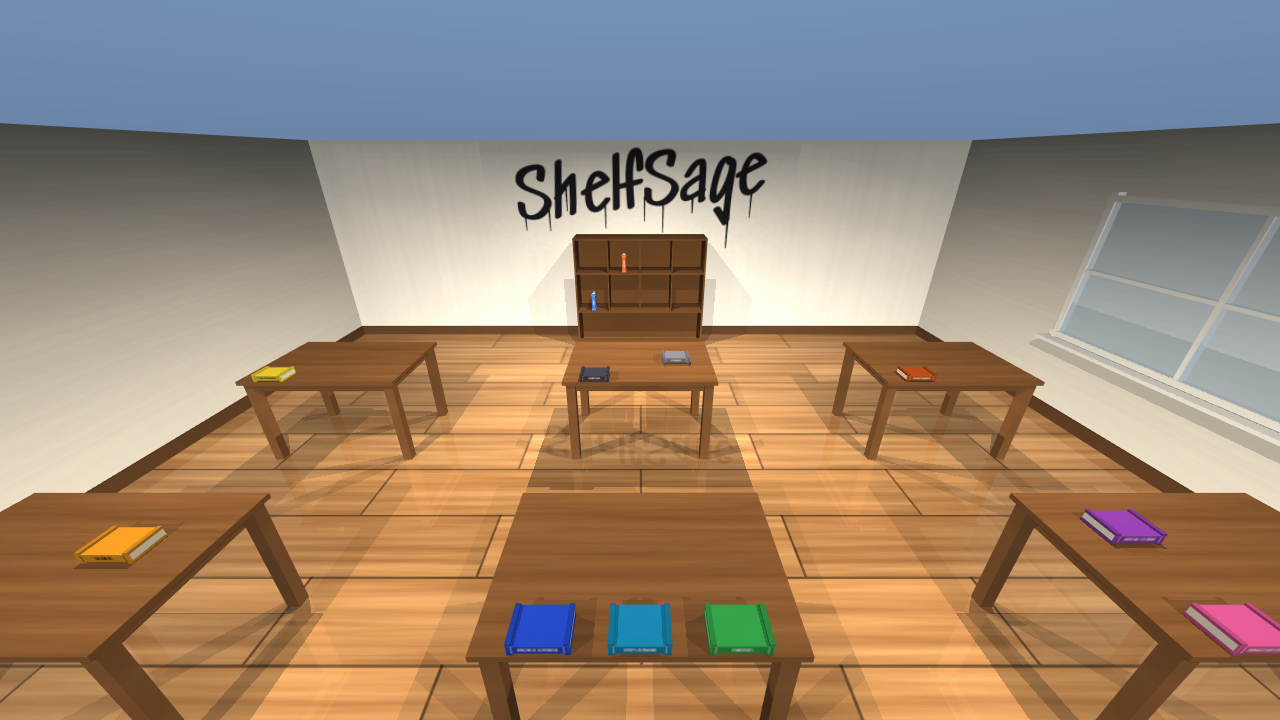
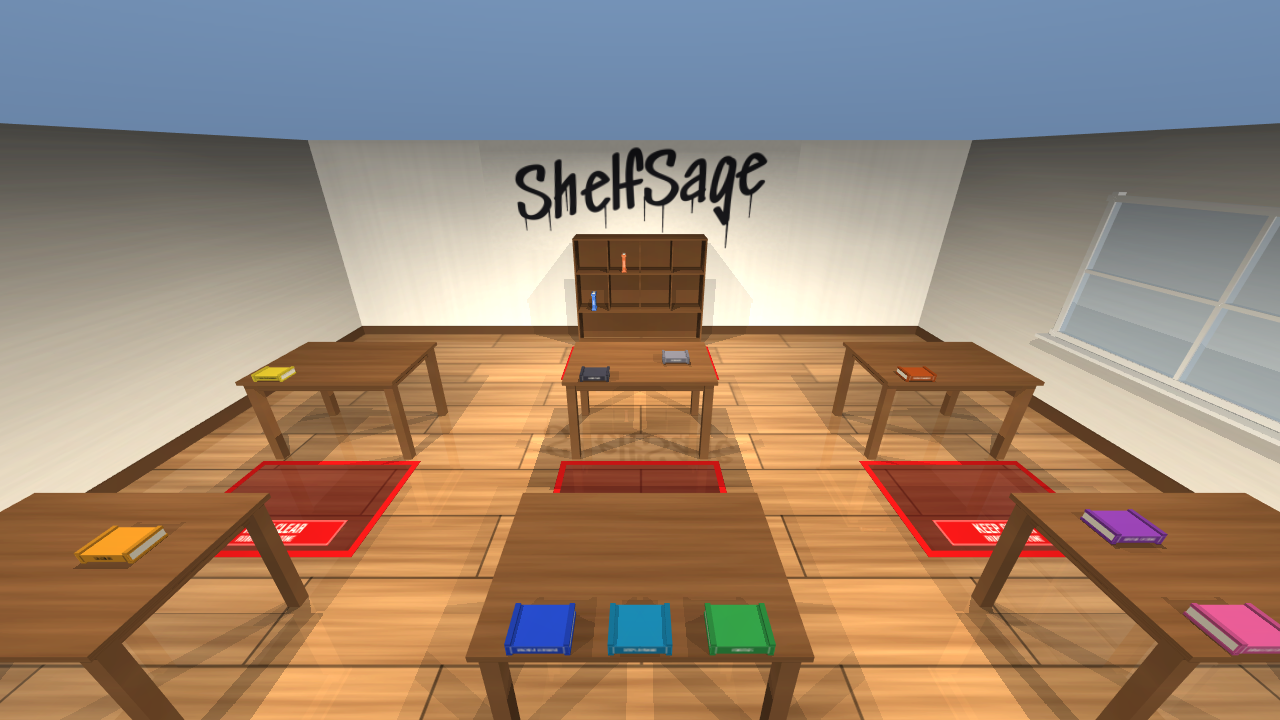
Floor zones: KEEP CLEAR - ROBOT WORK ZONE at fixed parking poses
- Fixed parking poses (0.30 m from the furniture) computed in the
  generator: one per table edge spot and one per shelf column, written
  to library_meta.json; the test and demo now read them from there.
- Red floor markings around them (tape border, light fill, label plate
  in Bebas Neue); visual only, no collisions, not in the LiDAR map.
  Zone rectangles are in the meta for later use (e.g. Phase 9 failures).
- Robot start moved to (0, -3.6) so it begins outside every zone.
- Phase 3 test: all checks pass; demo dry run: no contacts.

Changed region(s): [[0.6562, 0.6417, 0.8438, 0.7944], [0.1562, 0.6417, 0.3438, 0.7944], [0.4375, 0.6417, 0.5625, 0.7028]]

diff --git a/scene/generate_scene.py b/scene/generate_scene.py
@@ -285,6 +285,62 @@ def book_assets(layout):
     return out
 
 
+# --------------------------------------------------------------------- robot zones
+def parking_and_zones(layout, tables_meta, slots):
+    """Fixed robot parking poses (where it stands to pick / place) and the floor zones around them.
+
+    Tables: one pose per edge spot, facing the table (+y) from the robot side.
+    Shelf: one pose per column, facing the shelf.
+    The robot stands `park_clearance` away from the edge (grasp points then sit ~0.45 m ahead of
+    the arm mount, see sim/reach_check.py). Each zone covers the chassis at every pose of that
+    table / the shelf plus the gap to the furniture, where the arm works.
+    """
+    rc, zc = layout["robot"], layout["robot_zones"]
+    hx, hy = rc["chassis_half"]
+    clr, m = rc["park_clearance"], zc["margin"]
+    yaw = 1.5707963
+    zones = []
+    for name, t in tables_meta.items():
+        (tx, ty), (thx, thy) = t["pos"], t["half_size"]
+        edge = ty - thy
+        park_y = edge - clr - hx
+        t["parking"] = [[sp[0], park_y, yaw] for sp in t["edge_spots"]]
+        xs = [sp[0] for sp in t["edge_spots"]]
+        zones.append({"name": f"table_{name}", "x": [min(min(xs) - hy, tx - thx) - m, max(max(xs) + hy, tx + thx) + m],
+                      "y": [park_y - hx - m, edge]})
+    sh = layout["shelf"]
+    front = sh["pos"][1] - sh["depth"] / 2
+    park_y = front - clr - hx
+    cols = sorted({k[1:] for k in slots})
+    shelf_parking = {c: [slots[f"A{c}"][0], park_y, yaw] for c in cols}
+    xs = [p[0] for p in shelf_parking.values()]
+    zones.append({"name": "shelf", "x": [min(xs) - hy - m, max(xs) + hy + m], "y": [park_y - hx - m, front]})
+    return shelf_parking, zones
+
+
+def build_zones(zones, zc):
+    """Floor markings: translucent red fill, red tape border, KEEP CLEAR plate near the outer edge.
+    Purely visual (no collisions, not in the LiDAR map)."""
+    nc = 'contype="0" conaffinity="0"'
+    tape = zc["tape"]
+    lw, lh = zc["label_size"]
+    red = "0.78 0.08 0.08"
+    out = []
+    for z in zones:
+        (x0, x1), (y0, y1) = z["x"], z["y"]
+        cx, cy, hx, hy = (x0 + x1) / 2, (y0 + y1) / 2, (x1 - x0) / 2, (y1 - y0) / 2
+        n = z["name"]
+        out.append(f'<geom name="zone_{n}_fill" type="box" pos="{vec((cx, cy, 0.0006))}" '
+                   f'size="{vec((hx, hy, 0.0005))}" rgba="{red} 0.13" {nc}/>')
+        for side, (px, py, sx, sy) in {"s": (cx, y0 + tape / 2, hx, tape / 2), "n": (cx, y1 - tape / 2, hx, tape / 2),
+                                       "w": (x0 + tape / 2, cy, tape / 2, hy), "e": (x1 - tape / 2, cy, tape / 2, hy)}.items():
+            out.append(f'<geom name="zone_{n}_tape_{side}" type="box" pos="{vec((px, py, 0.0012))}" '
+                       f'size="{vec((sx, sy, 0.0005))}" rgba="{red} 1" {nc}/>')
+        out.append(f'<geom name="zone_{n}_label" type="box" pos="{vec((cx, y0 + tape + 0.04 + lh / 2, 0.0014))}" '
+                   f'size="{vec((lw / 2, lh / 2, 0.0005))}" material="zone_label_mat" {nc}/>')
+    return out
+
+
 # -------------------------------------------------------------------------- generate
 def ensure_textures():
     needed = ["floor_wood.png", "wood.png", "shelf_wood.png", "plaster.png", "sign_shelfsage.png"]
@@ -305,11 +361,16 @@ def generate():
     table_xml, tables_meta = build_tables(layout)
     shelf_geoms, slots = build_shelf(layout["shelf"])
     book_xml, books_meta = build_books(layout, tables_meta, slots)
+    shelf_parking, zones = parking_and_zones(layout, tables_meta, slots)
+    zc = layout["robot_zones"]
+    import make_textures
+    make_textures.make_floor_label("zone_label.png", zc["text"], zc["subtext"], zc["label_size"])
     spine_assets = "\n    ".join(book_assets(layout))
     win = layout["window"]
 
     body = []
     body += build_walls(room, hidden)
+    body += build_zones(zones, zc)
     body += build_window(win)
     if "sign" in layout:
         body += build_sign(room, layout["sign"])
@@ -354,6 +415,8 @@ def generate():
     <texture name="sign_tex" type="2d" file="sign_shelfsage.png"/>
     <material name="sign_mat" texture="sign_tex" specular="0.05" shininess="0.05"/>
     {spine_assets}
+    <texture name="zone_label_tex" type="2d" file="zone_label.png"/>
+    <material name="zone_label_mat" texture="zone_label_tex" specular="0.1" shininess="0.1"/>
   </asset>
   <worldbody>
 {lamps}
@@ -382,7 +445,8 @@ def generate():
         "window_pos": win["pos"],
         "hidden_walls": sorted(hidden),
         "tables": tables_meta,
-        "shelf": {"pos": layout["shelf"]["pos"], "slots": slots},
+        "shelf": {"pos": layout["shelf"]["pos"], "slots": slots, "parking": shelf_parking},
+        "robot_zones": zones,
         "books": books_meta,
         "book_dims": {"length": BOOK_L, "width": BOOK_W, "thickness": BOOK_T,
                       "rib_height": RIB_H, "rib_width": RIB_W, "mass": BOOK_MASS + 4 * RIB_MASS,

diff --git a/scene/make_textures.py b/scene/make_textures.py
@@ -155,6 +155,26 @@ def make_spine(name, title, color, length=0.22, thickness=0.04):
     img.save(OUT / name)
 
 
+ZONE_RED = (0.78, 0.08, 0.08)
+
+
+def make_floor_label(name, text, subtext, size=(0.90, 0.22)):
+    """Floor marking plate: white text on safety red (Bebas Neue)."""
+    from PIL import Image, ImageDraw, ImageFont
+
+    W, H = int(size[0] * 2000), int(size[1] * 2000)
+    img = Image.new("RGB", (W, H), tuple(int(c * 255) for c in ZONE_RED))
+    d = ImageDraw.Draw(img)
+    white = (250, 248, 240)
+    d.rectangle([12, 12, W - 13, H - 13], outline=white, width=10)
+    big = ImageFont.truetype(str(SPINE_FONT), int(H * 0.50))
+    small = ImageFont.truetype(str(SPINE_FONT), int(H * 0.30))
+    d.text((W / 2, H * 0.36), text, font=big, fill=white, anchor="mm")
+    d.text((W / 2, H * 0.76), subtext, font=small, fill=white, anchor="mm")
+    OUT.mkdir(exist_ok=True)
+    img.save(OUT / name)
+
+
 def main():
     make_parquet("floor_wood.png")
     make_wood("wood.png")

diff --git a/sim/test_robot.py b/sim/test_robot.py
@@ -30,15 +30,10 @@ from sim.robot import Robot, rot2  # noqa: E402
 
 OUT = ROOT / "sim/output/phase3"
 META = json.loads((ROOT / "scene/library_meta.json").read_text())
-CLEARANCE = 0.30   # gap between chassis front and table edge when parked: puts edge books ~0.45 m
-                   # ahead of the arm mount, mid-range for the 0.65 m mount (sim/reach_check.py)
 
-
-def table_parking(name):
-    """Facing the table from the south (+y), centred on the table, chassis CLEARANCE from the edge."""
-    t = META["tables"][name]
-    hx = META["robot"]["chassis_half"][0]
-    return t["pos"][0], t["pos"][1] - t["half_size"][1] - CLEARANCE - hx, math.pi / 2
+def table_parking(name, spot=1):
+    """Fixed parking pose in front of an edge spot (0, 1, 2; 1 = middle), from library_meta.json."""
+    return tuple(META["tables"][name]["parking"][spot])
 
 
 def ik_down(robot, target, q_seed, seeds=20):

diff --git a/sim/demo_phase3.py b/sim/demo_phase3.py
@@ -135,7 +135,7 @@ def main():
             # park ~30 cm from the shelf: the shelf grasp point is then ~0.45 m ahead of the arm
             # mount, in the middle of the reachable range (sim/reach_check.py)
             front = sh["pos"][1] - 0.35 / 2
-            shelf_park = (sh["pos"][0] + 0.2, front - 0.30 - hx, math.pi / 2)
+            shelf_park = tuple(sh["parking"]["3"])          # fixed pose for column 3
             for wp in [(1.25, -2.6, math.pi / 2), (1.25, 1.7, math.pi / 2), shelf_park]:
                 robot.go_to(*wp, tol_xy=0.02, tol_yaw=0.02)
 

diff --git a/README.md b/README.md
@@ -166,7 +166,8 @@ Everything is defined in [`scene/layout.json`](scene/layout.json) and generated 
 - 13 books (id, title, colour, location): 11 on tables, 2 standing in the shelf (Physics in A1, Statistics in B2)
 - **Book design ("customised library books")**: every book is 22 x 15 x 4 cm, with 1 cm high, 2 cm wide bumper strips (ribs) across both covers at head and tail. Lying flat, a book rests on its ribs, leaving a 1 cm gap underneath for the lower fingertip (the Panda fingertip is 7.6 mm thick); standing in the shelf, neighbours touch only at the ribs, leaving gaps for the fingers. The title is printed on the spine (texture, Bebas Neue font, SIL OFL)
 - On a table a book lies flat with its **spine towards the robot side**, either at an edge spot (default) or anywhere on the table (`"pos": [dx, dy]` in the layout, e.g. Calculus, Control Systems, Databases). In the shelf it stands with the spine facing the room, 2 cm behind the shelf front
-- Robot start pose (0, -3.2, yaw 90 deg = facing the tables); the robot itself is described in Phase 3 below
+- Robot start pose (0, -3.6, yaw 90 deg = facing the tables), on open floor outside every zone; the robot itself is described in Phase 3 below
+- **Fixed robot parking poses and floor zones**: the robot always picks / places from fixed poses, 0.30 m from the furniture: one per table edge spot (`tables.<T>.parking` in `library_meta.json`) and one per shelf column (`shelf.parking`). Around them the floor is marked with red tape, a light red fill and a **KEEP CLEAR - ROBOT WORK ZONE** plate (`robot_zones` in the layout and the meta). The markings are visual only (no collisions, not in the LiDAR map); the zone rectangles in the meta are meant for later use, e.g. injecting a "chair left in the robot zone" failure in Phase 9
 - The whole scene uses radians (`<compiler angle="radian">`), like the Panda
 - Books are free bodies (`freejoint`): collision = body box (geom group 3, hidden) + 4 rib boxes; visual = covers, spine, pages, ribs, spine label. Tables and shelf are fixed
 - Procedural textures (`scene/make_textures.py`), cameras `overview` and `cutaway`
